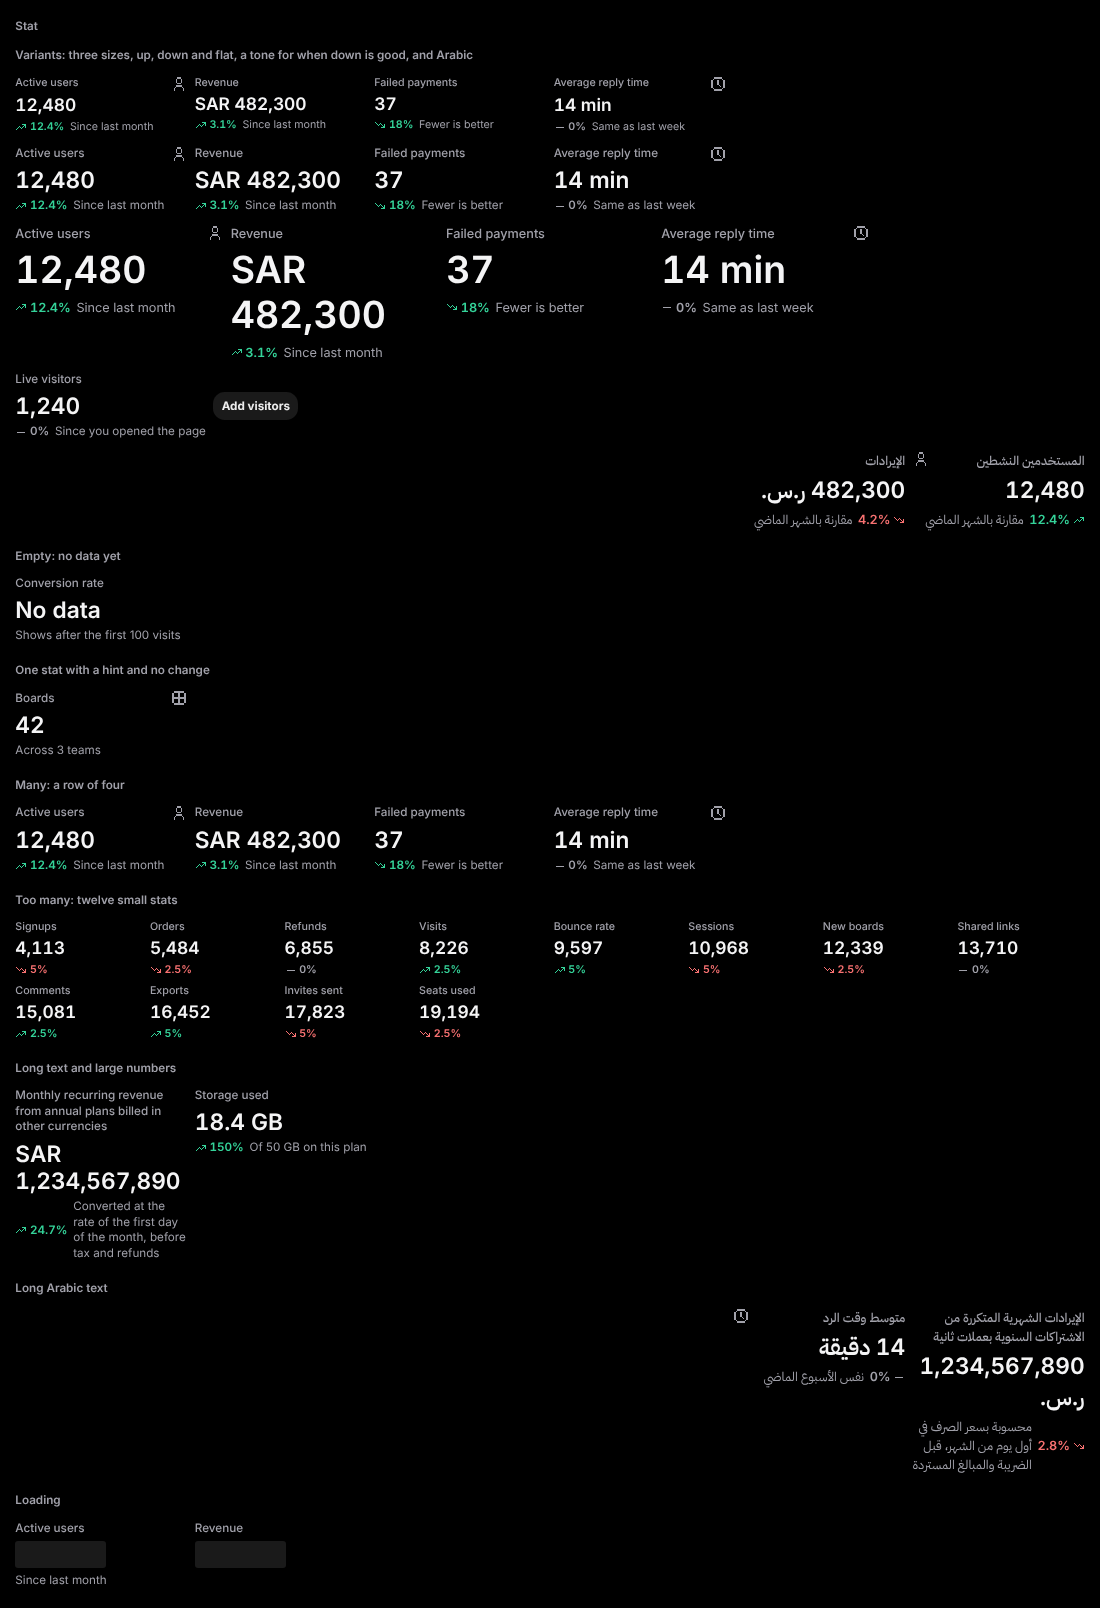
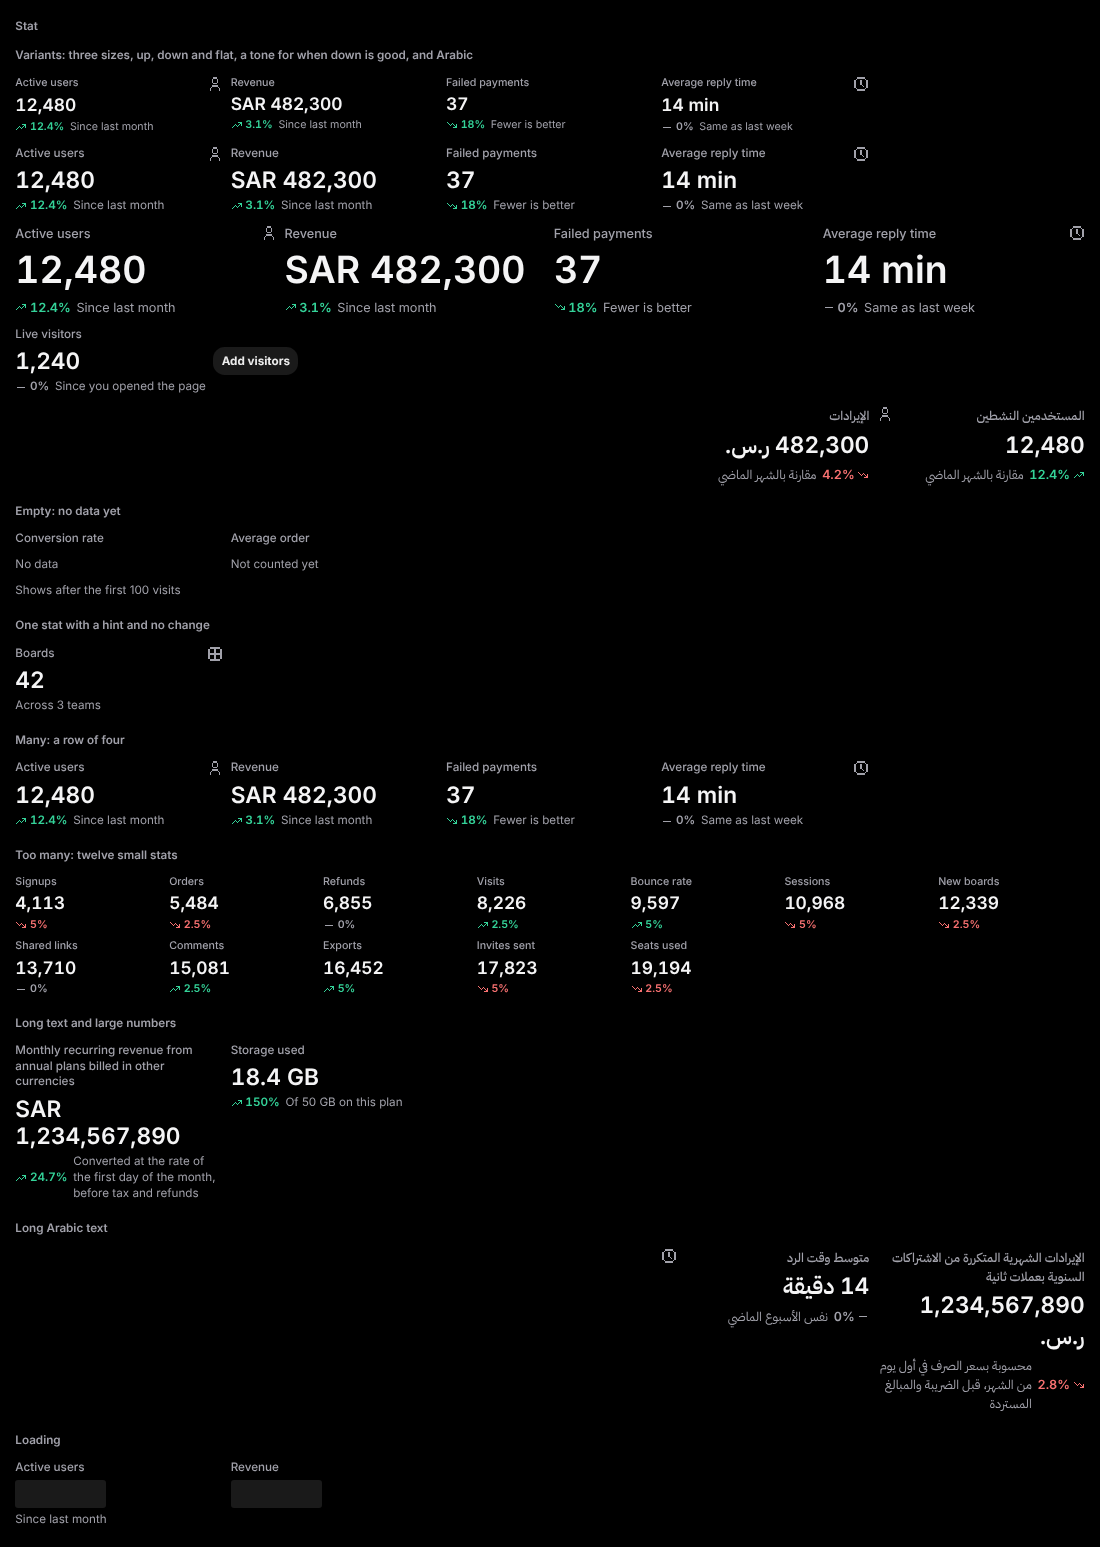
fix-9: Stat
A missing value, NaN or an infinite number draws emptyLabel (No data, or
لا توجد بيانات) and sets data-empty, never NaN or the infinity sign. Dev
warning for a node delta with no trend.

Claude-Session: https://claude.ai/code/session_01ErLBsdNKL8hgeVbwciEbpg

diff --git a/packages/react/src/components/Stat/Stat.tsx b/packages/react/src/components/Stat/Stat.tsx
@@ -29,6 +29,9 @@ export const statTrendLabels: Record<'en' | 'ar', Record<StatTrend, string>> = {
 
 const loadingLabels: Record<'en' | 'ar', string> = { en: 'Loading', ar: 'جار التحميل' };
 
+/** What the value says when there is no number to show: missing, null, NaN or Infinity. */
+export const statEmptyLabels: Record<'en' | 'ar', string> = { en: 'No data', ar: 'لا توجد بيانات' };
+
 const trendIcons: Record<StatTrend, IconName> = { up: 'trend-up', down: 'trend-down', flat: 'minus' };
 
 export interface StatProps extends Omit<HTMLAttributes<HTMLDivElement>, 'title'> {
@@ -66,6 +69,12 @@ export interface StatProps extends Omit<HTMLAttributes<HTMLDivElement>, 'title'>
   loading?: boolean;
   /** What screen readers hear while loading. Default Loading, or جار التحميل in Arabic. */
   loadingLabel?: string;
+  /**
+   * What the value says when there is none to show: undefined, null, NaN or
+   * an infinite number. Default No data, or لا توجد بيانات in Arabic. Sets
+   * `data-empty`.
+   */
+  emptyLabel?: string;
   /** Overrides the trend words. Default from `statTrendLabels` in the Theme language. */
   trendLabels?: Partial<Record<StatTrend, string>>;
   ref?: Ref<HTMLDivElement>;
@@ -105,6 +114,7 @@ export function Stat({
   size = 'md',
   loading = false,
   loadingLabel,
+  emptyLabel,
   trendLabels,
   ...rest
 }: StatProps) {
@@ -112,12 +122,27 @@ export function Stat({
   const langKey: 'en' | 'ar' = lang.toLowerCase().startsWith('ar') ? 'ar' : 'en';
   const trend = trendOf(delta, trendProp, (n) => formatStatNumber(Math.abs(n), lang, deltaFormat) === formatStatNumber(0, lang, deltaFormat));
   const tone = toneProp ?? (trend ? toneOf[trend] : 'neutral');
-  const shownValue = typeof value === 'number' ? breakableValue(formatStatNumber(value, lang, format)) : value;
+  // A number that is not finite would draw NaN or the infinity sign: treat it as missing.
+  const empty = !loading && (value === undefined || value === null || (typeof value === 'number' && !Number.isFinite(value)));
+  const shownValue = empty ? (
+    <span data-empty-label="">{emptyLabel ?? statEmptyLabels[langKey]}</span>
+  ) : typeof value === 'number' ? (
+    breakableValue(formatStatNumber(value, lang, format))
+  ) : (
+    value
+  );
   const shownDelta = typeof delta === 'number' ? formatStatNumber(Math.abs(delta), lang, deltaFormat) : delta;
   const words = { ...statTrendLabels[langKey], ...trendLabels };
   const hasDelta = !loading && delta !== undefined && delta !== null && !(typeof delta === 'number' && !Number.isFinite(delta));
 
-  const valueRef = useRollOnChange(typeof value === 'number' ? shownValue : undefined, loading);
+  const valueRef = useRollOnChange(typeof value === 'number' && !empty ? shownValue : undefined, loading);
+
+  // Development only: a node change with no trend is neither colored nor named.
+  const nodeDeltaWithoutTrend = hasDelta && typeof delta !== 'number' && trendProp === undefined;
+  useEffect(() => {
+    if (process.env.NODE_ENV === 'production' || !nodeDeltaWithoutTrend) return;
+    console.warn('Stat: delta is a node with no trend. Pass trend up, down or flat so the change has an icon and a spoken word.');
+  }, [nodeDeltaWithoutTrend]);
 
   return (
     <div
@@ -127,6 +152,7 @@ export function Stat({
       data-tone={hasDelta ? tone : undefined}
       data-trend={hasDelta ? trend : undefined}
       data-loading={loading ? '' : undefined}
+      data-empty={empty ? '' : undefined}
       aria-busy={loading || undefined}
     >
       <span data-part="label">{label}</span>

diff --git a/packages/react/src/components/Stat/Stat.test.tsx b/packages/react/src/components/Stat/Stat.test.tsx
@@ -75,6 +75,40 @@ describe('Stat', () => {
     expect(part(container, 'delta')).toBeNull();
   });
 
+  it('never draws NaN or the infinity sign: a value that is not a finite number reads as no data', () => {
+    for (const value of [Number.NaN, Number.POSITIVE_INFINITY, Number.NEGATIVE_INFINITY, undefined, null]) {
+      const { container, unmount } = render(<Stat label="Users" value={value} />);
+      expect(part(container, 'value')?.textContent, String(value)).toBe('No data');
+      expect(root(container).hasAttribute('data-empty')).toBe(true);
+      unmount();
+    }
+    const { container, rerender } = render(<Stat label="Users" value={Number.NaN} emptyLabel="Not counted yet" />);
+    expect(part(container, 'value')?.textContent).toBe('Not counted yet');
+    rerender(<Stat label="Users" value={12} />);
+    expect(root(container).hasAttribute('data-empty')).toBe(false);
+    rerender(<Stat label="Users" loading />);
+    expect(root(container).hasAttribute('data-empty')).toBe(false);
+  });
+
+  it('says no data in Arabic under an Arabic Theme', () => {
+    const { container } = render(
+      <Theme lang="ar" dir="rtl">
+        <Stat label="المستخدمين" value={Number.NaN} />
+      </Theme>,
+    );
+    expect(part(container, 'value')?.textContent).toBe('لا توجد بيانات');
+  });
+
+  it('warns in development when a node delta has no trend', () => {
+    const warn = vi.spyOn(console, 'warn').mockImplementation(() => {});
+    render(<Stat label="Users" value={10} delta={<span>+3</span>} />);
+    expect(warn).toHaveBeenCalledWith(expect.stringContaining('no trend'));
+    warn.mockClear();
+    render(<Stat label="Users" value={10} delta={<span>+3</span>} trend="up" />);
+    expect(warn).not.toHaveBeenCalled();
+    warn.mockRestore();
+  });
+
   it('lets the tone and trend be set, for metrics where down is good', () => {
     const { container } = render(<Stat label="Errors" value={3} delta={-0.4} tone="success" />);
     expect(root(container).getAttribute('data-tone')).toBe('success');

diff --git a/packages/css/src/components/Stat.css b/packages/css/src/components/Stat.css
@@ -166,6 +166,24 @@
     position: relative;
   }
 
+  /* No value: the empty label in the muted color at the meta size, on the value's line height so nothing shifts when a number arrives. */
+  [data-ds='stat'][data-empty] {
+    --_stat-value-block-size: calc(var(--_stat-font-size) * var(--ds-font-leading-tight));
+  }
+
+  [data-ds='stat'][data-empty] > [data-part='value'] {
+    display: flex;
+    align-items: center;
+    color: var(--_stat-label-fg);
+    font-size: var(--_stat-meta-font-size);
+    font-weight: var(--ds-font-weight-regular);
+    letter-spacing: var(--ds-font-tracking-none);
+  }
+
+  [data-ds='stat'][data-empty] > [data-part='value'] > [data-empty-label] {
+    line-height: var(--ds-font-leading-snug);
+  }
+
   /* Arabic: no display tracking, a taller line for the label and hint. */
   [data-ds='stat']:lang(ar) > [data-part='value'] {
     letter-spacing: var(--ds-font-tracking-none);

diff --git a/packages/react/src/components/Stat/Stat.demo.tsx b/packages/react/src/components/Stat/Stat.demo.tsx
@@ -64,7 +64,8 @@ export default function StatDemo() {
 
       <DemoCase id="empty" title="Empty: no data yet">
         <DemoGrid min="12rem">
-          <Stat label="Conversion rate" value="No data" hint="Shows after the first 100 visits" />
+          <Stat label="Conversion rate" hint="Shows after the first 100 visits" />
+          <Stat label="Average order" value={Number.NaN} emptyLabel="Not counted yet" />
         </DemoGrid>
       </DemoCase>
 
